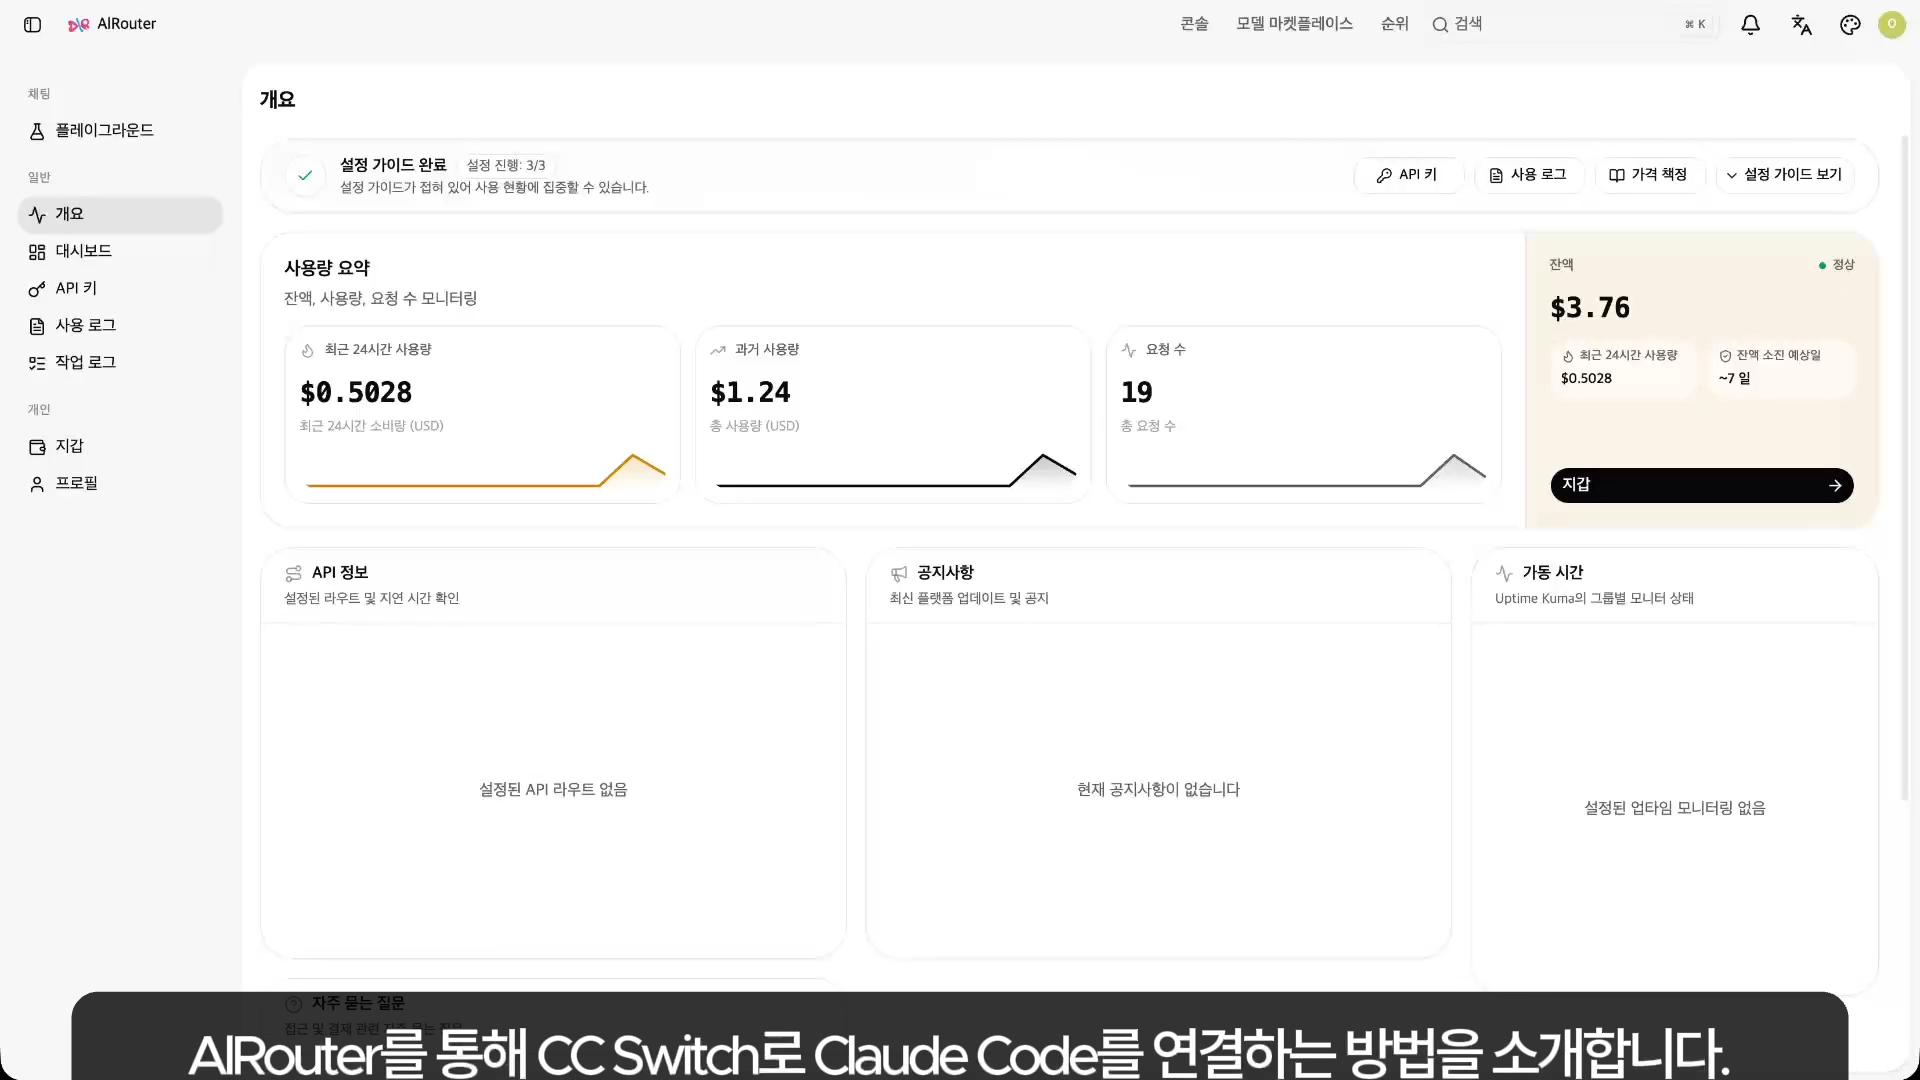
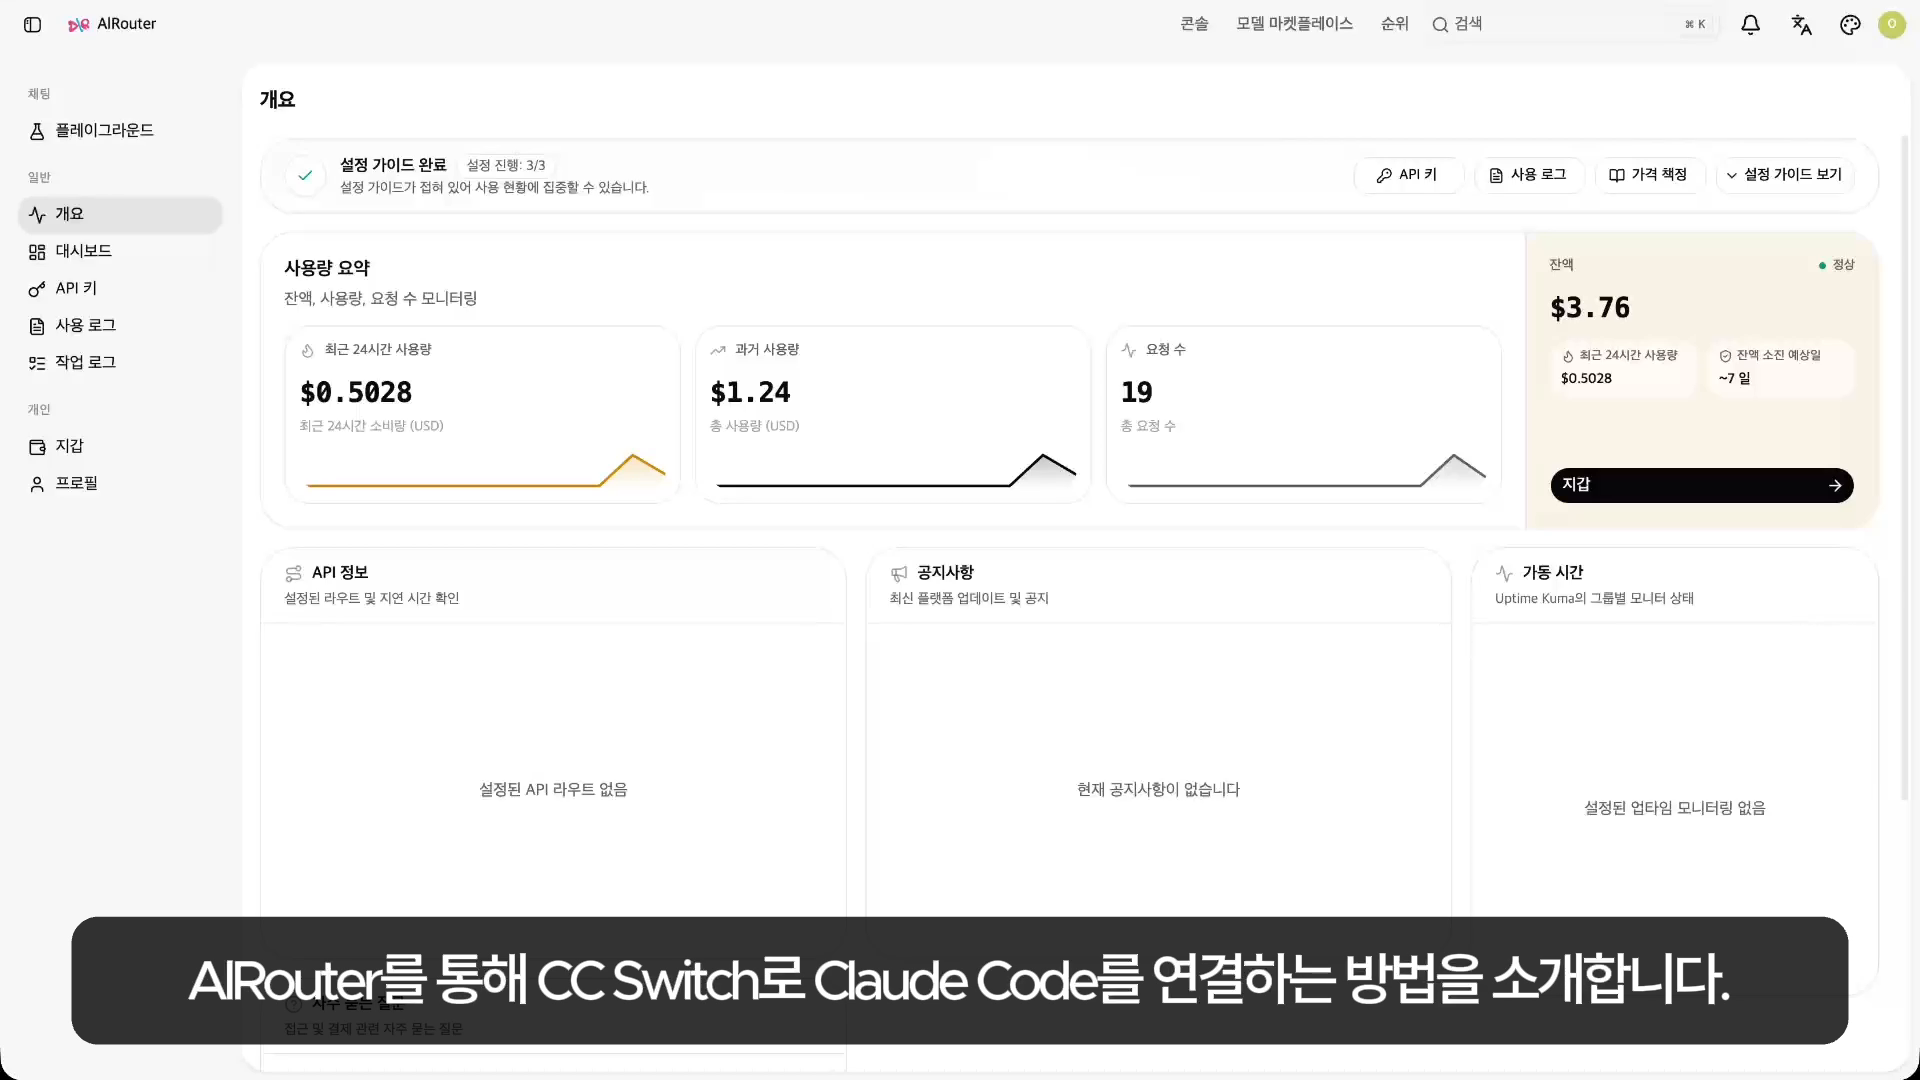
feat(guide): fix video state on tab switch, tune CTA/replay, update posters
Pause and rewind the previous tab's video when switching between the
manual and CC Switch panels so it doesn't keep playing in the
background. Show the CTA earlier (7s) for the longer CC Switch video,
and re-sync the replay button to the real ended state so scrubbing
after the video ends hides it again. Replace the CC Switch poster
frames with the first-caption frame, per language.

Changed region(s): [[0.0312, 0.825, 0.9688, 1.0]]

diff --git a/web/default/public/guide.js b/web/default/public/guide.js
@@ -18,7 +18,7 @@
 
   // 가이드 영상 하나(재생 오버레이 + 종료 시 CTA/다시보기)에 필요한 동작을 전부 연결.
   // 매뉴얼 설정 패널과 CC Switch 패널 둘 다 동일한 구조라 id 접미사만 바꿔 재사용한다.
-  function wireGuideVideo(suffix) {
+  function wireGuideVideo(suffix, ctaLeadSeconds) {
     var guideVideo = document.getElementById('guideVideo' + suffix);
     if (!guideVideo) return;
 
@@ -51,7 +51,7 @@
     var guideCtaBtn = document.getElementById('guideCtaBtn' + suffix);
     var guideReplayBtn = document.getElementById('guideReplayBtn' + suffix);
     if (guideCtaWrap && guideCtaBtn) {
-      var CTA_LEAD_SECONDS = 5;
+      var CTA_LEAD_SECONDS = ctaLeadSeconds || 5;
       guideVideo.addEventListener('timeupdate', function () {
         var showFrom = guideVideo.duration - CTA_LEAD_SECONDS;
         if (guideVideo.currentTime >= showFrom && guideCtaWrap.style.display === 'none') {
@@ -70,9 +70,14 @@
       });
 
       if (guideReplayBtn) {
-        guideVideo.addEventListener('ended', function () {
-          guideReplayBtn.style.display = 'flex';
-        });
+        // 다시보기 버튼은 실제로 영상이 끝난(ended) 상태일 때만 노출.
+        // 끝난 뒤 재생바를 앞/뒤로 당기면 ended가 풀리므로 그때마다 다시 감춘다.
+        var syncReplayBtn = function () {
+          guideReplayBtn.style.display = guideVideo.ended ? 'flex' : 'none';
+        };
+        guideVideo.addEventListener('ended', syncReplayBtn);
+        guideVideo.addEventListener('seeking', syncReplayBtn);
+        guideVideo.addEventListener('play', syncReplayBtn);
         guideReplayBtn.addEventListener('click', function () {
           guideReplayBtn.style.display = 'none';
           guideCtaBtn.classList.remove('active');
@@ -85,7 +90,7 @@
   }
 
   wireGuideVideo('');
-  wireGuideVideo('Cc');
+  wireGuideVideo('Cc', 7);
 
   // 그룹 토글 (수동 설정 / CC Switch)
   // 선택한 탭과 스크롤 위치를 sessionStorage에 저장해, 새로고침이나 언어 전환(같은 탭 내 이동) 후에도 유지되도록 함
@@ -98,6 +103,14 @@
     if (!btn || !target) return;
     document.querySelectorAll('.guide-group-btn').forEach(function (b) {
       b.setAttribute('aria-selected', 'false');
+    });
+    // 비활성화되는 그룹의 영상은 화면에서만 숨겨질 뿐 재생은 계속되므로, 탭을 떠날 때 처음 상태로 되돌린다
+    document.querySelectorAll('.guide-group.active').forEach(function (g) {
+      if (g === target) return;
+      g.querySelectorAll('video').forEach(function (v) {
+        v.pause();
+        v.currentTime = 0;
+      });
     });
     document.querySelectorAll('.guide-group').forEach(function (g) {
       g.classList.remove('active');
